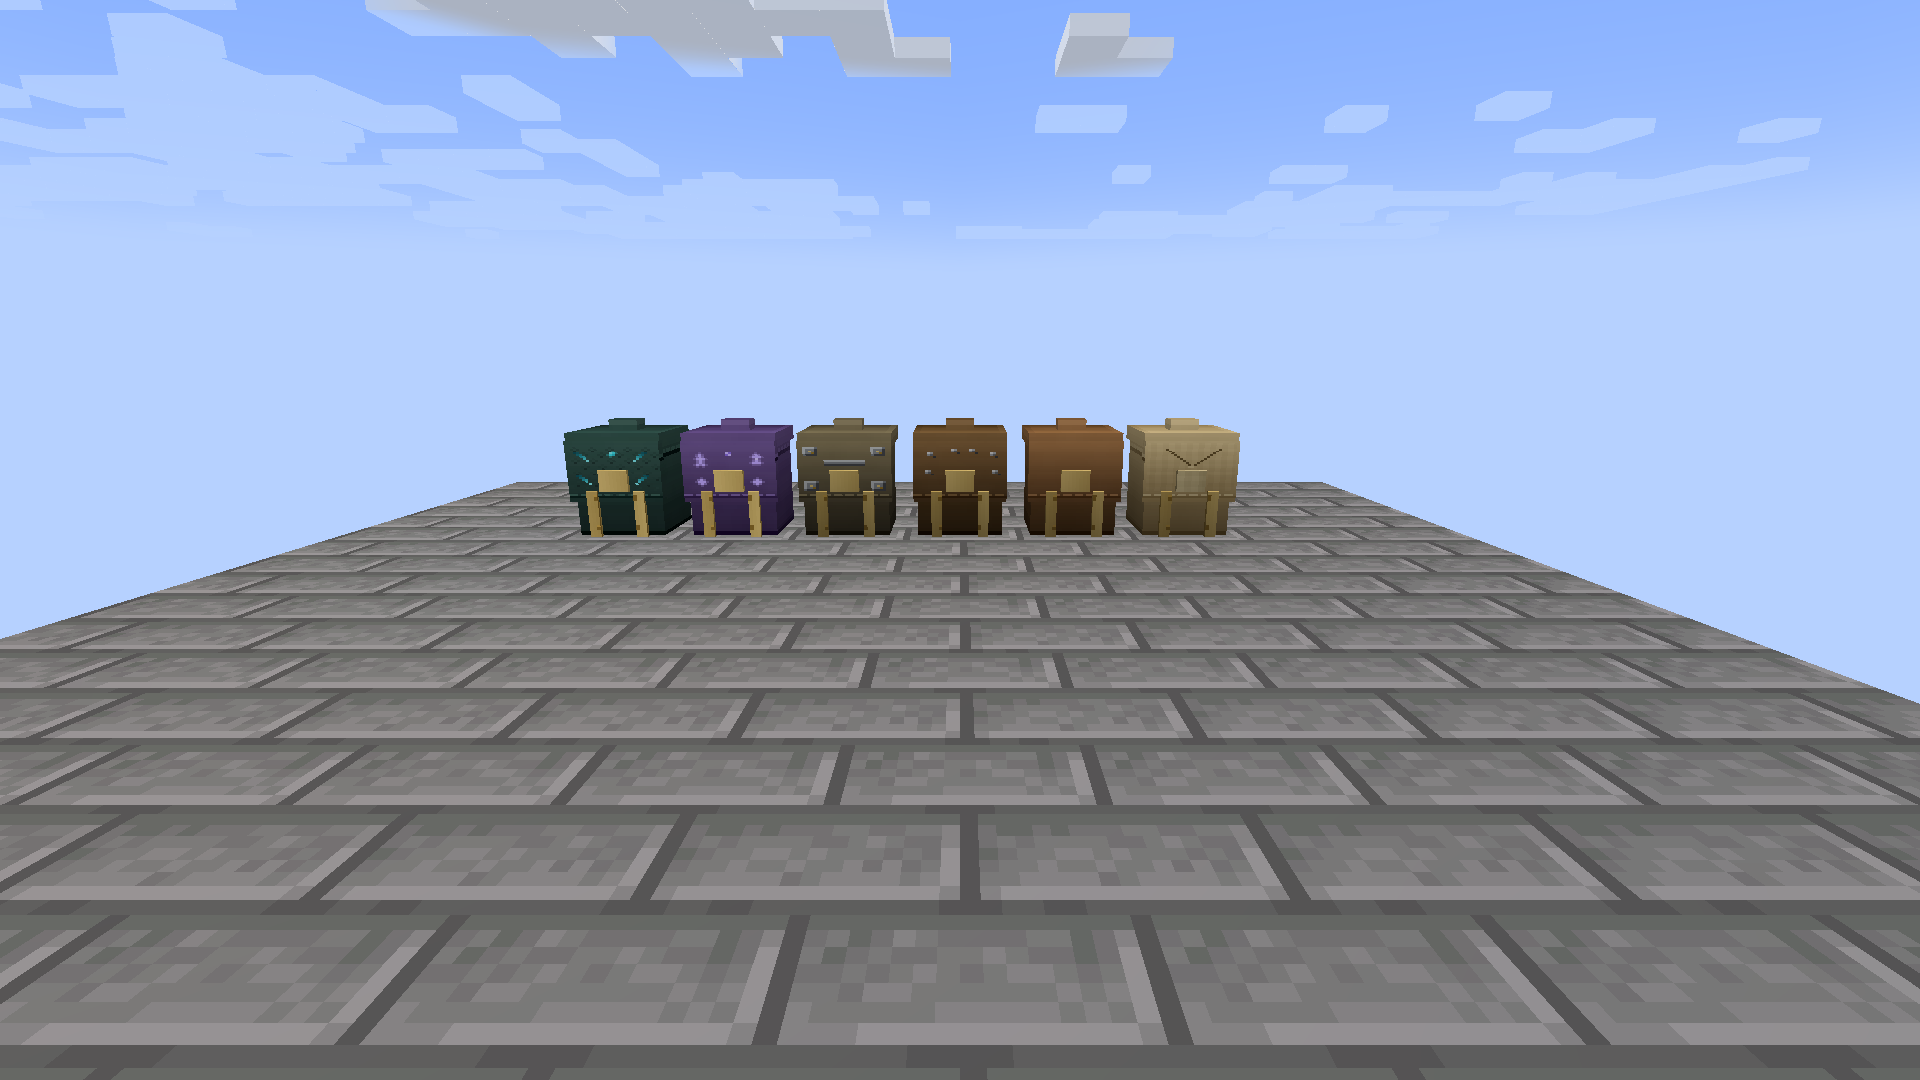
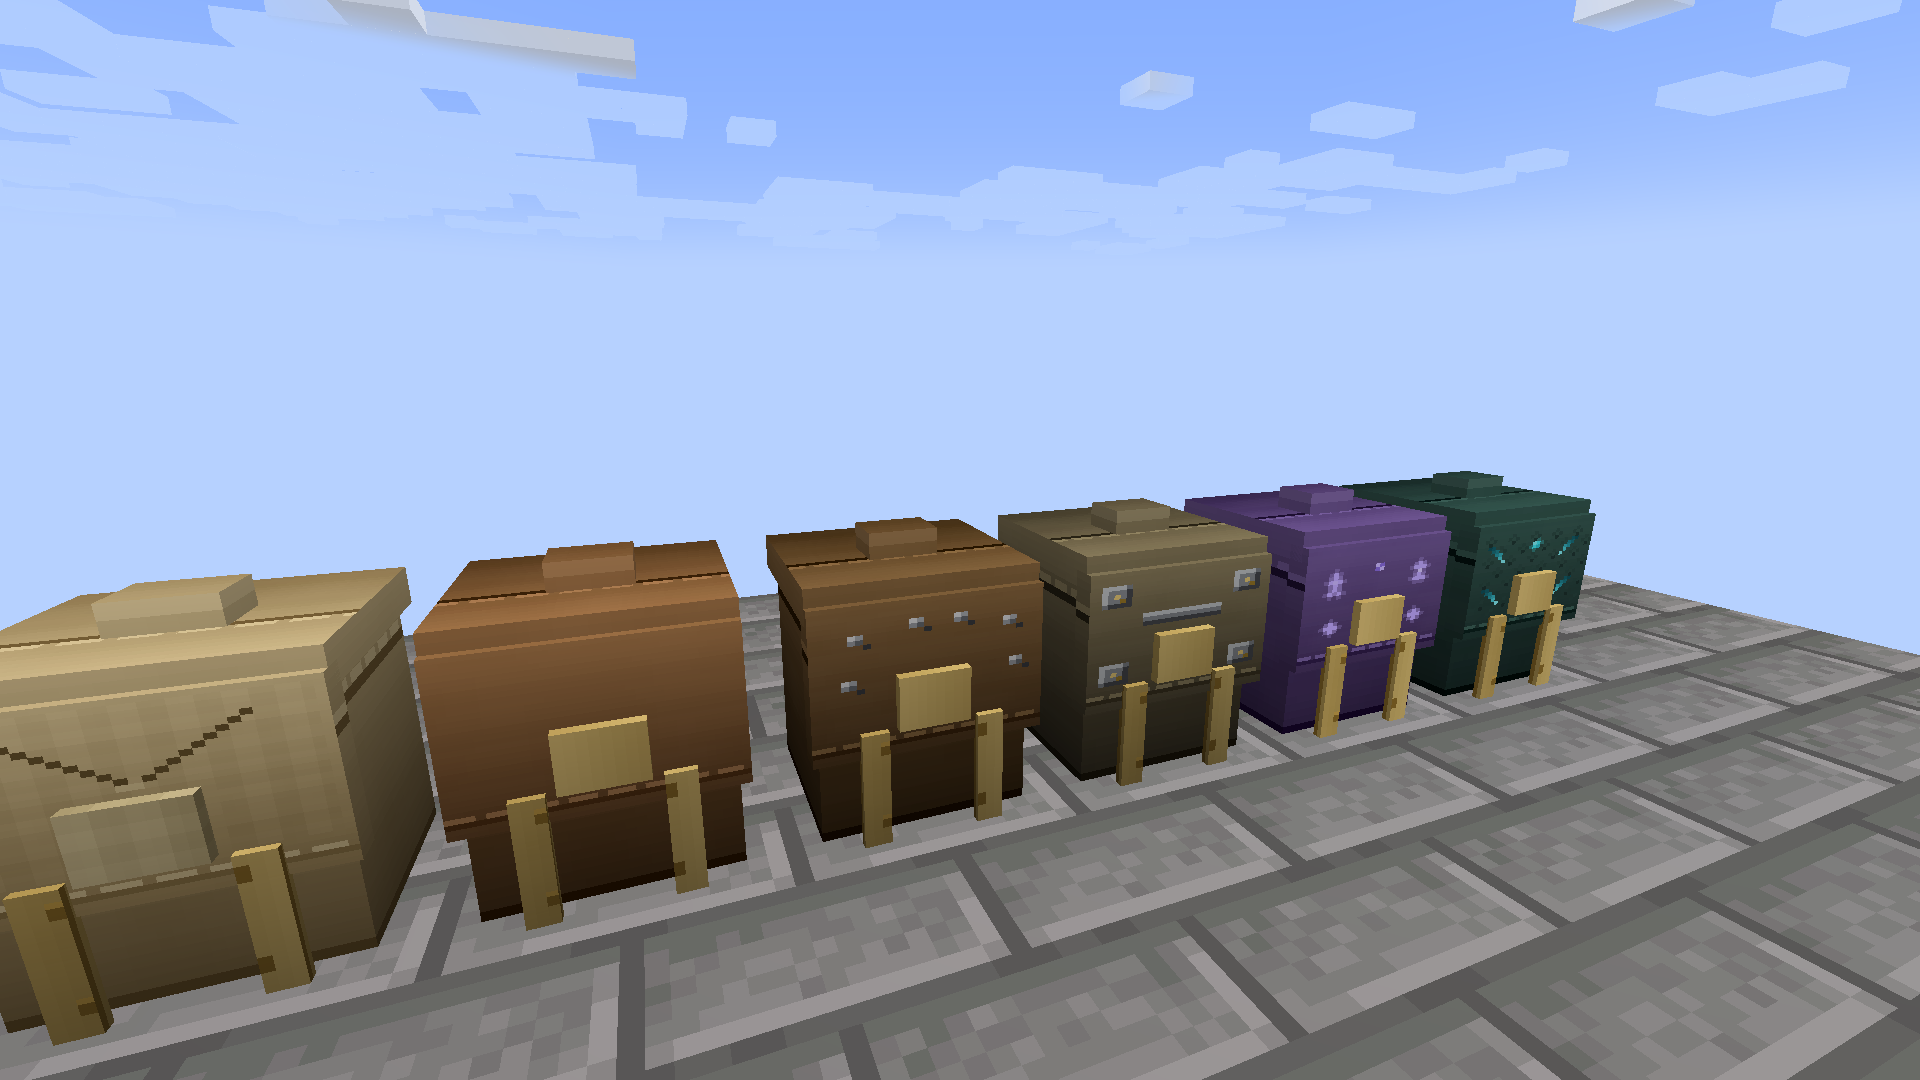
The gallery hero: the lineup shot close, the ladder reading left to right
The six-tier lineup was a distant dead-on band mid-frame - a test
screenshot, not a store hero. Re-shot, not cropped: the DevAutoShot
gallery chain grew a hero-camera step (G_HERO_W) that steps in close at
the Canvas end on the night shot's slightly-low, slightly-angled
vantage, and the gallery pad rose 26 -> 64 after one seed grew a
hilltop tree into the over-the-row sightline.

SapperSquad's order call: tiers ascend for the VIEWER, Canvas -> Sculkhide
left to right, matching the banner. The cameras face south and east is
frame-left, so placeBlocks lays the row east-to-west descending
(placedFirst = Canvas at +x); the night camera mirrors with it so a
future regen reads ascending too. Committed gallery-7 kept - swapping
in the mirrored regen is SapperSquad's call.

PUBLISHING.md (SapperSquad confirmed): 1.21.1 / NeoForge only for launch, said
plainly in requirements - 'Other loaders and versions may follow based
on demand.' No other version claims on the page; the upload table stays
exactly 1.21.1 / NeoForge.

Verified as pixels at 1920x1080: all six trims identifiable at a
glance, backdrop pure sky. 54 GameTests green.

diff --git a/src/main/java/com/sappersquad/packwork/client/DevAutoShot.java b/src/main/java/com/sappersquad/packwork/client/DevAutoShot.java
@@ -60,7 +60,7 @@ public final class DevAutoShot {
         JEI_SHOW, JEI_W, SHOOT_JEI, DONE,
         // ---- the promo-gallery chain (runs INSTEAD of the above under -Pgallery) ----
         G_BOOT, G_WAIT_LEVEL,
-        G_PLACE, G_WPLACE, G_SHOOT_LINEUP,
+        G_PLACE, G_WPLACE, G_HERO_W, G_SHOOT_LINEUP,
         G_OPEN, G_WOPEN, G_SHOOT_SORTING,
         G_KIT, G_KIT_W, G_UNROLL, G_UNROLL_W, G_LEDGER, G_LEDGER_W, G_CHALK, G_CHALK_W, G_SHOOT_LEDGER,
         G_PACK2, G_PACK2_W, G_TAB, G_TAB_W, G_QUILL, G_QUILL_W, G_WRITE, G_WRITE_W, G_SHOOT_RULES,
@@ -74,6 +74,7 @@ public final class DevAutoShot {
     private static int ticks = 0;
     private static int wait = 0;
     private static String customTabId = "custom:0";
+    private static net.minecraft.core.BlockPos placedFirst = null;
     private static net.minecraft.core.BlockPos placedMiddle = null;
     private static net.minecraft.core.BlockPos placedLast = null;
 
@@ -465,11 +466,19 @@ public final class DevAutoShot {
                 }
             }
             case G_PLACE -> {
-                placeBlocks(mc, 26);          // the six-tier row on a SKY pad, midday - clean backdrop
+                placeBlocks(mc, 64);          // the six-tier row on a SKY pad, midday - clean backdrop
+                                              // (64, not 26: the angled hero camera looks OVER the row,
+                                              // and one seed grew a hilltop tree into that sightline)
                 mc.options.hideGui = true;    // a clean world shot: no hotbar, no crosshair
                 phase = Phase.G_WPLACE; wait = 0;
             }
-            case G_WPLACE -> { if (++wait > 50) phase = Phase.G_SHOOT_LINEUP; }
+            case G_WPLACE -> {
+                if (++wait > 50) {
+                    heroCam(mc);              // step in close - the stand-back framing read as a test shot
+                    phase = Phase.G_HERO_W; wait = 0;
+                }
+            }
+            case G_HERO_W -> { if (++wait > 30) phase = Phase.G_SHOOT_LINEUP; }
             case G_SHOOT_LINEUP -> {
                 grab(mc, "gallery_lineup");   // (1) all SIX per-tier packs, daylight
                 mc.options.hideGui = false;
@@ -573,10 +582,15 @@ public final class DevAutoShot {
                     if (server.getPlayerList().getPlayers().isEmpty()) return;
                     ServerPlayer sp = server.getPlayerList().getPlayers().get(0);
                     sp.serverLevel().setDayTime(18000);
-                    // step in close on the Sculkhide so its echo-gem glow carries the frame
+                    // Step in close on the Sculkhide so its echo-gem glow carries the frame.
+                    // The Sculkhide now sits at the +0 (west) end of the row, so the camera
+                    // stands on its EAST side (+1.8 past the block coord = +1.3 past centre,
+                    // the mirror of the old -1.3) and yaw mirrors to -20: the glowing pack
+                    // rides near frame-right and the row recedes left, still Canvas->Sculkhide
+                    // ascending for the viewer.
                     if (placedLast != null) {
-                        sp.connection.teleport(placedLast.getX() - 0.8, placedLast.getY(),
-                                placedLast.getZ() - 2.4, 20f, 16f);
+                        sp.connection.teleport(placedLast.getX() + 1.8, placedLast.getY(),
+                                placedLast.getZ() - 2.4, -20f, 16f);
                     }
                 });
                 mc.options.hideGui = true;
@@ -931,18 +945,41 @@ public final class DevAutoShot {
                     for (int dy = 0; dy <= 4; dy++) lvl.setBlock(base.offset(dx, dy, dz), air, 2);
                     lvl.setBlock(base.offset(dx, -1, dz), floor, 2);
                 }
-            // one of every tier, in ladder order, so the per-tier trim can be compared side by side
+            // One of every tier, in ladder order, so the per-tier trim can be compared side by
+            // side. The row is laid EAST-to-WEST descending (Canvas at +x, Sculkhide at +0)
+            // because the cameras face south and east is frame-LEFT: the viewer reads
+            // Canvas -> Sculkhide left-to-right, ascending — the same direction as the banner.
             com.sappersquad.packwork.pack.PackTier[] tiers =
                     com.sappersquad.packwork.pack.PackTier.values();
             for (int i = 0; i < tiers.length; i++) {
-                net.minecraft.core.BlockPos bp = base.offset(i, 0, 4);
+                net.minecraft.core.BlockPos bp = base.offset(tiers.length - 1 - i, 0, 4);
                 placePackBlock(lvl, bp, tiers[i], i == 2); // give the middle (Studded) a loadout for the GUI shot
+                if (i == 0) placedFirst = bp;              // the Canvas pack, at the +x end
                 if (i == 2) placedMiddle = bp;
-                if (i == tiers.length - 1) placedLast = bp; // the Runed one, for the break/replace check
+                if (i == tiers.length - 1) placedLast = bp; // the Sculkhide one, for the night shot + break/replace check
             }
             // stand back and centre the five-wide row
             sp.connection.teleport(base.getX() + 2.5, base.getY(), base.getZ() - 2.5, 0f, 14f);
             Packwork.LOGGER.info("[autoshot] placed {} per-tier pack blocks", tiers.length);
+        });
+    }
+
+    /**
+     * The hero framing for the daylight lineup: step in close at the Canvas end (+x) and look
+     * up the ladder, the same slightly-low slightly-angled vantage as the night shot - the
+     * near pack carries the frame and the tiers ascend left-to-right, Canvas to Sculkhide,
+     * matching the banner. The dead-on stand-back position that placeBlocks leaves the
+     * player at read as a test screenshot.
+     */
+    private static void heroCam(Minecraft mc) {
+        var server = mc.getSingleplayerServer();
+        if (server == null || placedFirst == null) return;
+        server.execute(() -> {
+            if (server.getPlayerList().getPlayers().isEmpty()) return;
+            ServerPlayer sp = server.getPlayerList().getPlayers().get(0);
+            sp.connection.teleport(placedFirst.getX() - 0.7, placedFirst.getY(),
+                    placedFirst.getZ() - 2.1, 22f, 14f);
+            Packwork.LOGGER.info("[gallery] hero camera set for the lineup");
         });
     }
 

diff --git a/PROJECT_HANDOFF.md b/PROJECT_HANDOFF.md
@@ -20,6 +20,33 @@ Forgework, PhytoForge, Gunsmith, Pantrywork, and Reel Rivals.
 > first build); bump/label at publish. **54 GameTests green** (with no optional deps AND
 > with -Pforgework -Pmekanism -Pcurios combined); jar builds clean.
 
+**2026-07-26 gallery hero reframe — the lineup re-shot close, ladder reading left-to-right.**
+Review verdict on `promo/gallery-1-lineup.png`: the dead-on stand-back framing left the six
+packs a small band mid-frame — a test screenshot, not a store hero. Re-shot rather than
+cropped (the row was only ~135px tall in the source; no 1:1 crop could make it a hero).
+- `DevAutoShot` gallery chain grew a `G_HERO_W` step: after placement, `heroCam` steps in
+  close (`placedFirst -0.7x, -2.1z, yaw 22, pitch 14`) — the same slightly-low,
+  slightly-angled vantage as the night shot. Pad rise for the gallery went 26 → 64: the
+  angled camera looks OVER the row, and one random seed grew a hilltop tree into that
+  sightline (caught as pixels on the first re-shoot).
+- **SapperSquad's order call: tiers ascend left-to-right for the VIEWER, Canvas → Sculkhide,
+  matching the banner.** The cameras face south and east is frame-left, so `placeBlocks`
+  now lays the row east-to-west descending (Canvas at +x = `placedFirst`, Sculkhide at +0 =
+  `placedLast`); the night camera mirrored with it (`placedLast +1.8x, -2.4z, yaw -20`) so a
+  future regen of the night shot also reads ascending. Committed `gallery-7` kept as-is —
+  its old Sculkhide-near-left glow framing is the stronger image; swapping in the mirrored
+  regen is SapperSquad's call.
+- Final frame verified as pixels at 1920x1080 (unchanged size): near Canvas carries the
+  frame, tiers ascend left-to-right, all six trims identifiable at a glance (twine / buckle
+  / studs / steel plates+band / glyphs / echo-cyan veins), backdrop pure sky. GUI shots
+  untouched — the lineup was the only distant world shot.
+- **PUBLISHING.md (SapperSquad confirmed): 1.21.1 / NeoForge only for launch.** Requirements line
+  now reads "**1.21.1 / NeoForge** (21.1.235+). No other dependencies, ever. Other loaders
+  and versions may follow based on demand." Page audited: no other version claims, upload
+  table stays exactly `1.21.1` / `NeoForge`, no ranges. `promo/README.md` description
+  trued up; gallery captions still accurate as written ("Canvas to Sculkhide" is now
+  literally the left-to-right read).
+
 **2026-07-23 art pass 4 (backpack silhouette) — DONE & verified in-game.** SapperSquad reviewed the
 hero packs: shading was good but the silhouette had come out too ROUND — the packs read like
 pouches/orbs (the runed one like a magic orb), not rugged backpacks. Reshaped in-pipeline,

diff --git a/promo/README.md b/promo/README.md
@@ -19,7 +19,7 @@ Store-page art for Modrinth / CurseForge. Captions and the upload plan live in
 |---|---|
 | `icon-512.png` | Project icon: the Leather Pack on a stitched leather patch. |
 | `banner-1920x640.png` | Featured banner: name, tagline, the six-tier ladder. |
-| `gallery-1-lineup.png` | The six placed tiers, daylight, sky pad. |
+| `gallery-1-lineup.png` | The six placed tiers, daylight, sky pad — shot close and angled from the Canvas end (the hero camera), tiers ascending left-to-right Canvas → Sculkhide to match the banner. |
 | `gallery-2-sorting.png` | The sorting GUI, mid-sort (tabs, sockets, gauges). |
 | `gallery-3-ledger.png` | Tool roll + Recipe Ledger with a chalked ghost. |
 | `gallery-4-rules.png` | The Quill & Ledger rule editor, written on. |

diff --git a/PUBLISHING.md b/PUBLISHING.md
@@ -138,7 +138,8 @@ Remove any of them and Packwork carries on without it.
 
 ## ⚙ Requirements & honest notes
 
-- **NeoForge 1.21.1** (21.1.235+). No other dependencies, ever.
+- **1.21.1 / NeoForge** (21.1.235+). No other dependencies, ever. Other loaders and
+  versions may follow based on demand.
 - Opening a worn pack's GUI straight from the Curios slot isn't wired yet — open it from
   your inventory (its trinkets work fine while worn).
 - The pack never voids anything on failure. The only trash path is the Compass Rose,
